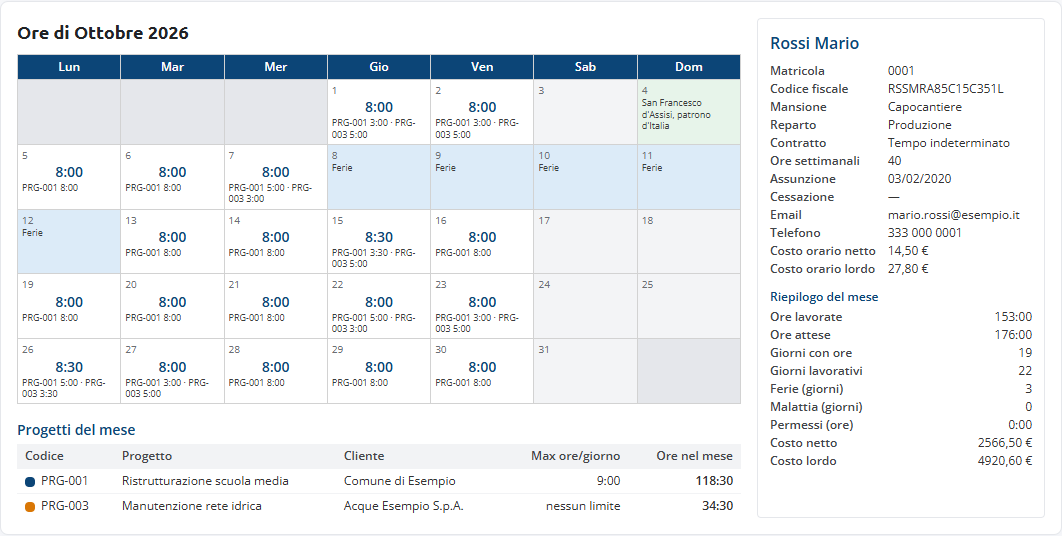
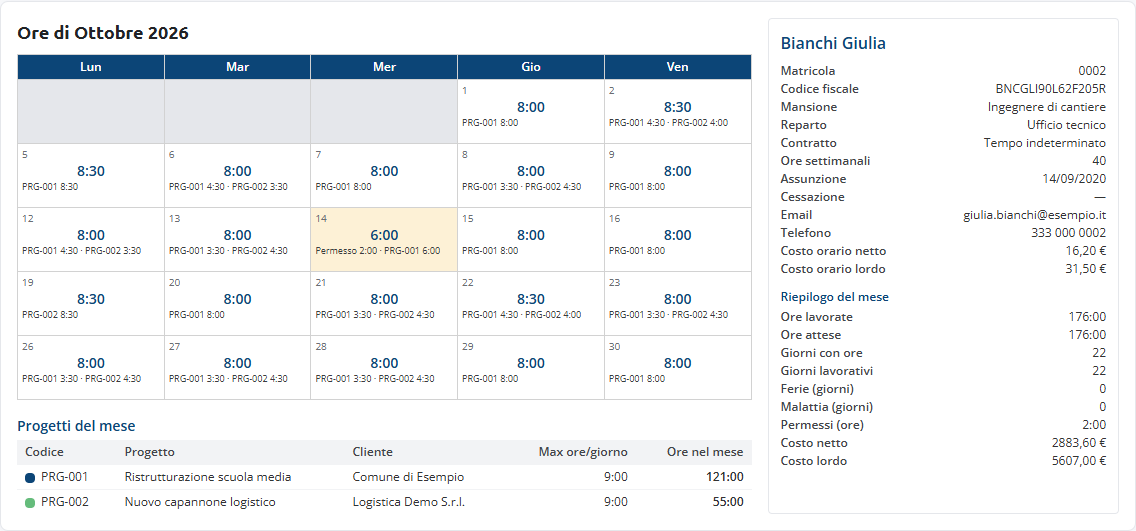
docs(logbook): guida, estrazioni senza sabato e domenica (immagini 15 e 16 rifatte)
docs/guida/README.md:
- il calendario lavorato e gli estratti mensili mostrano solo i giorni da lunedì a venerdì;
- nuova nota: sabato e domenica non compaiono mai nelle estrazioni, né in Excel né in stampa.
Le immagini 15 (mese a calendario) e 16 (giorni e costi) sono rifatte con la griglia a cinque colonne, dalla copia del database su Edge.

diff --git a/Logbook/docs/guida/README.md b/Logbook/docs/guida/README.md
@@ -368,12 +368,15 @@ progetti (nessuna spunta = tutti). Il riepilogo mostra subito le ore totali, le 
 calendario. Poi:
 
 - **Calendario lavorato**: un foglio per dipendente con anagrafica, ogni giorno del
-  periodo (fasce, progetto, ore, assenze, festività), totali, ore contrattuali attese,
+  periodo da lunedì a venerdì (fasce, progetto, ore, assenze, festività), totali, ore contrattuali attese,
   giorni di ferie e malattia, ore di permesso.
 - **Ore per progetto**: per ogni dipendente i progetti lavorati con ore e **costo lordo**,
   il totale complessivo e un foglio riassuntivo dipendenti × progetti.
 
 Le ore nei file Excel sono in formato ore:minuti (es. 7:30) e si possono sommare.
+
+**Sabato e domenica non compaiono mai** nelle estrazioni (report, estratti mensili, Excel,
+stampa e PDF): nel fine settimana non si registrano ore.
 
 ### Estratti mensili (Excel, stampa e PDF)
 
@@ -381,7 +384,7 @@ In fondo alla pagina **Esporta**: scegliete il **mese** (da gennaio 2020) e, se 
 dipendenti e i progetti nelle caselle in alto. Sotto compare l'anteprima, un dipendente per
 pagina, in due versioni:
 
-**Mese a calendario**: a sinistra il calendario del mese con le ore di ogni giorno e i
+**Mese a calendario**: a sinistra il calendario del mese, **da lunedì a venerdì**, con le ore di ogni giorno e i
 progetti (ferie in azzurro, malattia in rosso, permessi in giallo, festivi in grigio, festività in verde),
 a destra l'anagrafica e il riepilogo del mese (ore lavorate e attese, ferie, malattia,
 permessi, costo netto e lordo), in basso la descrizione dei progetti lavorati con le ore
@@ -389,7 +392,8 @@ massime al giorno e le ore del mese.
 
 ![Estratto: mese a calendario](img/15-estratto-mese-calendario.png)
 
-**Giorni e costi**: in testa tutti i dati del dipendente, poi una riga per ogni giorno con
+**Giorni e costi**: in testa tutti i dati del dipendente, poi una riga per ogni giorno da
+lunedì a venerdì con
 ore, progetti, fasce, assenze (ferie, malattia, permessi), festività, ore retribuite e
 **costo netto e lordo del giorno**. Ferie e malattia nei giorni lavorativi valgono le ore
 del contratto di quel giorno (ore settimanali / 5), i permessi la loro durata; le festività
